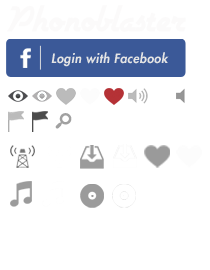
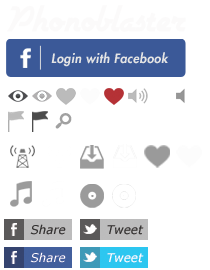
FB and TW share buttons implemented on the view

Changed region(s): [[0.0, 0.8, 0.3429, 1.0], [0.3714, 0.8, 0.7143, 1.0]]

diff --git a/templates/station/station.html b/templates/station/station.html
@@ -114,7 +114,9 @@
 		<div id="sessions">
 			<div class="stat">
 				<span class="figure">0</span>
-				<span class="title">Listeners<span>
+				<span class="title">Listeners</span>
+				<a id="tw-share" class="tuto" data-original-title="Share {% if is_admin %}your{% else%}this{% endif %} station on Twitter!"></a>
+				<a id="fb-share" class="tuto" data-original-title="Share {% if is_admin %}your{% else%}this{% endif %} station on Facebook!"></a>
 			</div>
 			<div id="listeners">
 				<!-- Example -->
@@ -124,15 +126,6 @@
 					</a>
 				-->
 			</div>
-			{% if is_admin %}
-			<a id="share" class="btn primary" href="#" class="tuto" data-original-title="Share your station on Facebook!">
-				Bring your fans!
-			</a>
-			{% else %}
-			<a id="share" class="btn primary" href="#" class="tuto" data-original-title="Share this station on Facebook!">
-				Bring your friends!
-			</a>
-			{% endif %}
 		</div>
 		<!-- Broadcasts counter -->
 		<div id="broadcasts" class="stat">

diff --git a/static/css/station/station.css b/static/css/station/station.css
@@ -329,6 +329,35 @@ a.unfav{
 	width:100%;
 }
 
+#sessions .stat a{
+	float:right;
+	display:inline-block;
+	margin-bottom:-6px;
+	margin-left:10px;
+	height:21px;
+	width:70px;
+}
+
+a#fb-share{
+	background-image:url("/static/images/new-sprits.png");
+	background-position:-2px -489px;
+}
+
+a#fb-share:hover{
+	background-image:url("/static/images/new-sprits.png");
+	background-position:-2px -517px;	
+}
+
+a#tw-share{
+	background-image:url("/static/images/new-sprits.png");
+	background-position:-79px -489px;
+}
+
+a#tw-share:hover{
+	background-image:url("/static/images/new-sprits.png");
+	background-position:-79px -517px;
+}
+
 #listeners{
 	width:100%;
 }
@@ -345,19 +374,6 @@ a.listener img{
 	float:left;
 	height:35px;
 	width:35px;
-}
-
-a#share{
-	float:left;
-	margin-top:10px;
-	margin-bottom:10px;
-	padding:8px;
-	padding-bottom:6px;
-	background:rgba(255,255,255,0.8);
-}
-
-a#share:hover{
-	background:rgba(0,0,0,0.8);
 }
 
 /* ------- OVERLAY -------- */
